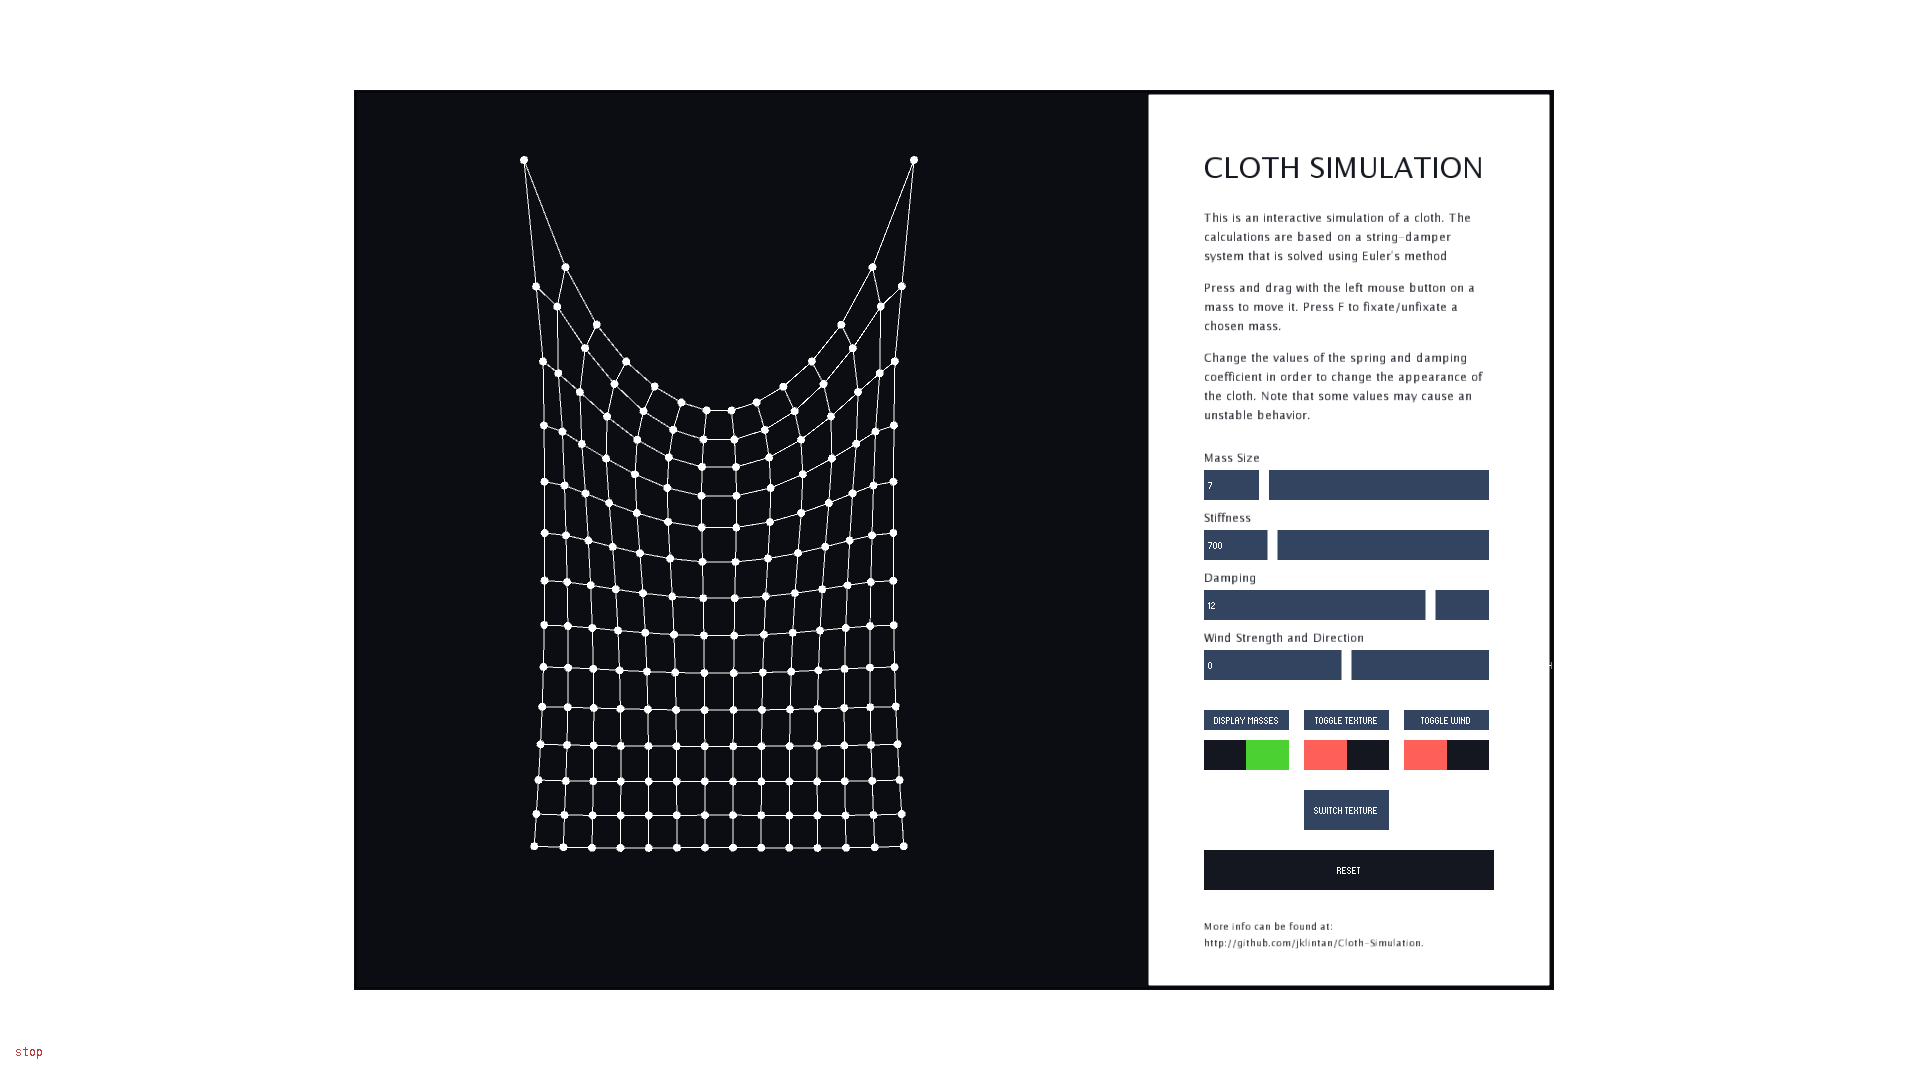
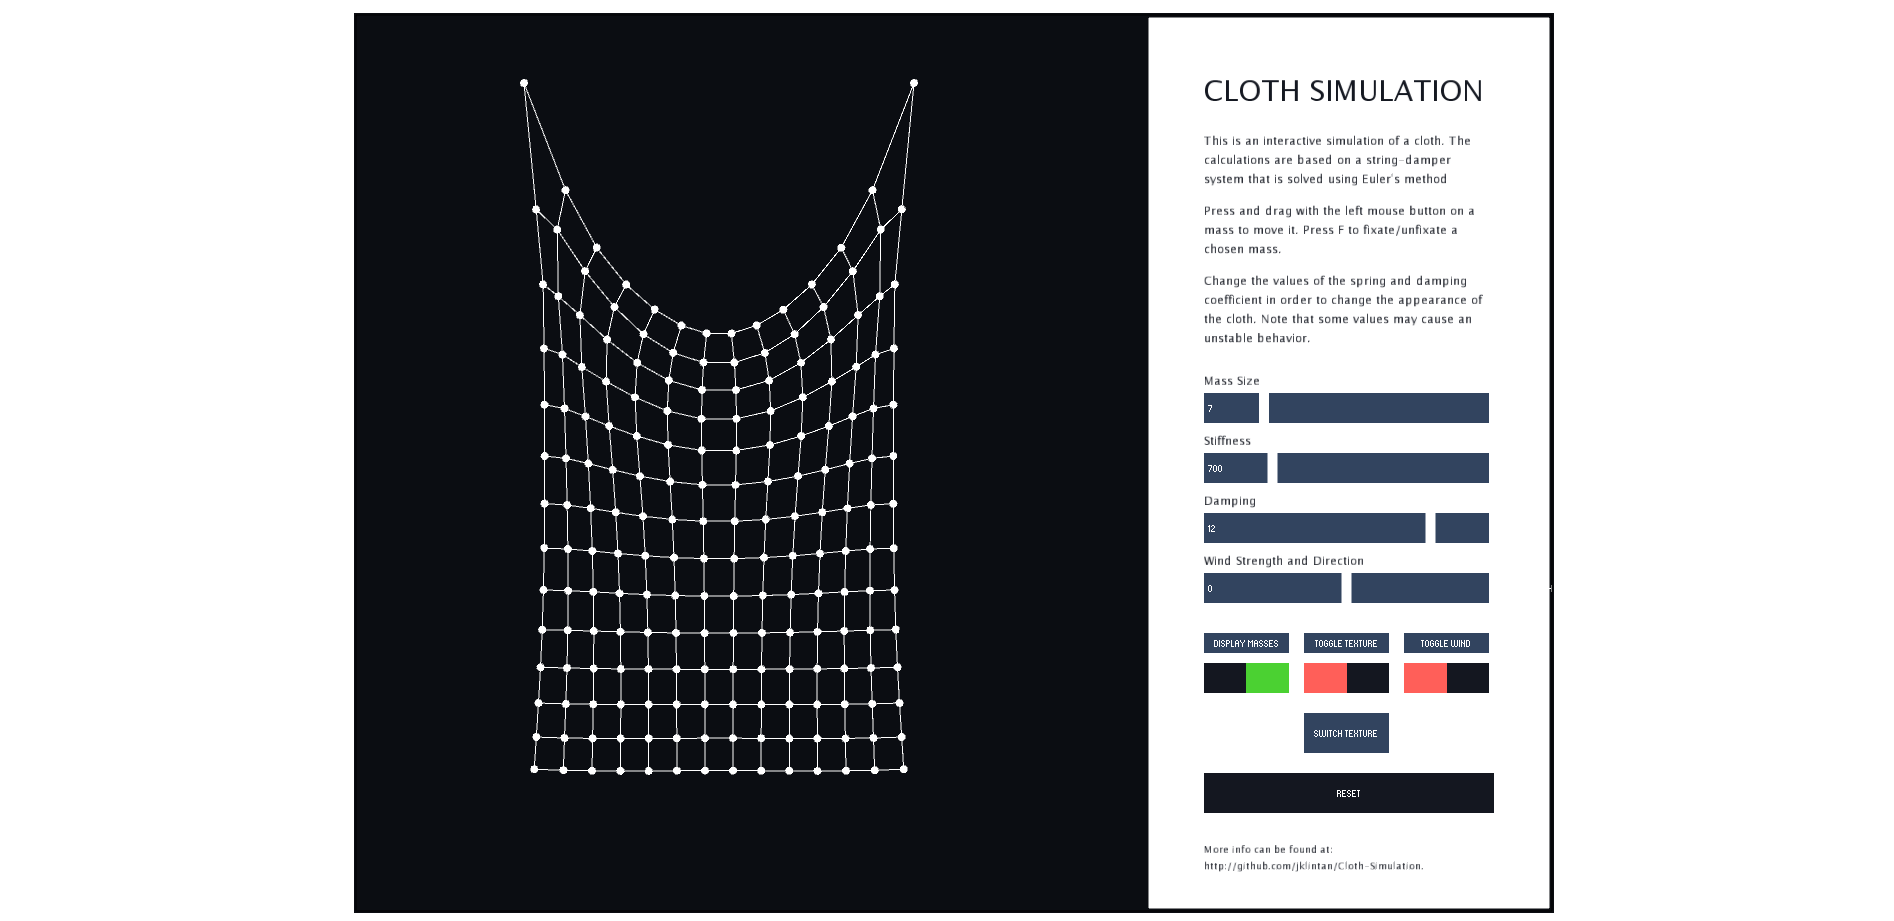
Fix 404 link and image issue

diff --git a/html/visualizing-women-in-movies.html b/html/visualizing-women-in-movies.html
@@ -60,7 +60,6 @@
                 according to Behdel data as well as display more detailed information of individual movies by hovering.
             </p>
             <div class="info moreLink">
-                <a href="./visualizing-women-in-movies.html">Read More</a>
                 <a href="https://jklintan.github.io/Visualizing-Women-In-Movies/">Demo</a>
                 <a href="https://github.com/jklintan/Visualizing-Women-In-Movies">Code</a>
             </div>
@@ -96,7 +95,7 @@
                 to conclude that a good variety of data had been chosen. The statistics for the data used in the
                 visualization can be seen below.</p>
 
-            <img src="../img/projects/bechdelStats.PNG" />
+            <img src="../img/projects/bechdelStats.png" />
 
             <p>The implementation of the visualization graph was performed using the Javascript library \textit{d3},
                 version 3, and displayed through an HTML-file and styled by CSS. The usage of circles to represent the

diff --git a/html/cloth-simulation.html b/html/cloth-simulation.html
@@ -120,7 +120,7 @@
                 for defining which input-image used for the rendering. This texture image will then be mapped upon the
                 defined vertex points that build up the lattice and will correctly deform along with the cloth. </p>
 
-            <img src="../img/projects/clothFrontpage.PNG" />
+            <img width="100%" src="../img/projects/clothFrontpage.PNG" />
 
             <p> In order to simulate wind, a map is used in order to create a force field. A small offset is added and
                 multiplied with Perlin Noise in order to get a continuous, but still slightly random, appearance of wind

diff --git a/html/cross-stitch-generator.html b/html/cross-stitch-generator.html
@@ -58,9 +58,9 @@
                 creating a detailed and appealing cross stitch image.
             </p>
 
-            <!--<div class="info moreLink">
-                <a href="https://github.com/jklintan/shaders">Code</a>
-            </div>-->
+            <div class="info moreLink">
+                <a href="https://github.com/jklintan/Cross-Stitch-Generator">Code</a>
+            </div>
 
             <img width="100%" src="../img/projects/mtodoom.jpg" />
 
